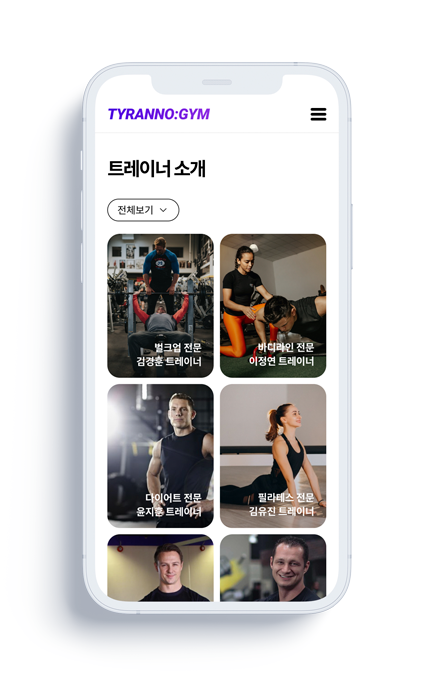
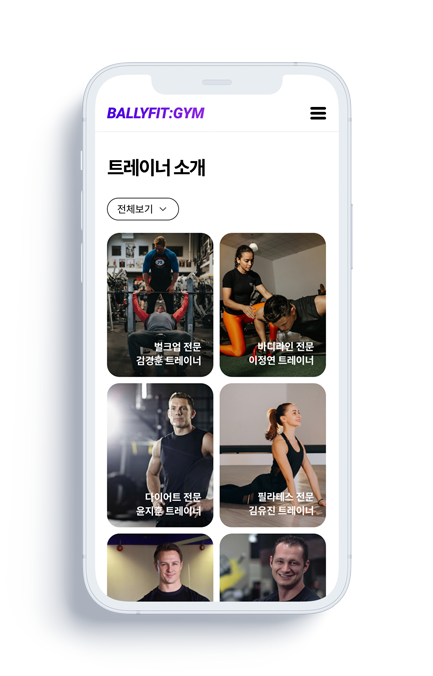
Add files via upload

diff --git a/index.html b/index.html
@@ -223,11 +223,12 @@
 
         <div class="cbg-blue section">
             <div class="container">
+                <!--
                 <div class="regist-box">
-                    <div class="regist" onclick="location.href='#';" target='_blank'>
+                    <div class="regist" onclick="location.href='https://pf.kakao.com/_FnQDK';" target='_blank'>
                         <p>⚡ 지금 바로 신청하기</p>
                     </div>
-                </div>
+                </div> -->
                 <div class="header_inner">
                     <img src="img/logo_white.svg" class="logo">
                     <button class="nav_btn">신청하기</button>
@@ -241,7 +242,7 @@
                                     <br>어렵지 않아요.
                                 </h1>
                                 <div class="opc">
-                                    <h1>발리핏이 도와드립니다.</h1>
+                                    <h1>발리FIT이 도와드립니다.</h1>
                                 </div>
                                 <button class="title_btn" onclick="p1()">홈페이지 샘플 보기</button>
                             </div>
@@ -270,7 +271,7 @@
                                         <i class="fas fa-cog"></i>
                                     </div>
                                     <h2>꼭 필요한 기능</h2>
-                                    <p>발리핏이 분석한 필수기능을
+                                    <p>발리FIT이 분석한 필수기능을
                                         <br>합리적인 가격에 제공합니다.
                                     </p>
                                 </div>
@@ -280,7 +281,7 @@
                                     </div>
                                     <h2>템플릿과 디자인</h2>
                                     <p>원하는 스타일만 선택하면
-                                        <br>발리핏이 완성합니다.
+                                        <br>발리FIT이 완성합니다.
                                     </p>
                                 </div>
                                 <div class="circle-box">
@@ -289,7 +290,7 @@
                                     </div>
                                     <h2>유지보수까지 한 번에</h2>
                                     <p>수정할 내용만
-                                        <br>발리핏에 알려주세요.
+                                        <br>발리FIT에 알려주세요.
                                     </p>
                                 </div>
                             </div>
@@ -453,7 +454,7 @@
                                         <br>원하는 컬러만 고르면
                                     </h1>
                                     <h1 class="td" data-aos="fade-in" data-aos-duration="1000" data-aos-delay="500">
-                                        <strong>발리핏이 디자인 합니다.</strong>
+                                        <strong>발리FIT이 디자인 합니다.</strong>
                                     </h1>
                                 </div>
                             </div>
@@ -465,7 +466,7 @@
                                             <br>원하는 컬러만 고르면
                                         </h1>
                                         <h1 class="td" data-aos="fade-in" data-aos-duration="1000" data-aos-delay="500">
-                                            발리핏이 디자인 합니다.
+                                            발리FIT이 디자인 합니다.
                                         </h1>
                                     </div>
                                 </div>
@@ -509,7 +510,7 @@
                                         <br>수정사항 업데이트도
                                     </h1>
                                     <h1 class="td" data-aos="fade-in" data-aos-duration="1000" data-aos-delay="500">
-                                        <font color="#0567fa"><strong>발리핏이 직접 합니다.</strong></font>
+                                        <font color="#0567fa"><strong>발리FIT이 직접 합니다.</strong></font>
                                     </h1>
                                     </h1>
                                 </div>
@@ -522,7 +523,7 @@
                                             <br>수정사항 업데이트도
                                         </h1>
                                         <h1 class="td" data-aos="fade-in" data-aos-duration="1000" data-aos-delay="500">
-                                            <font color="#0567fa">발리핏이 직접 합니다.</font>
+                                            <font color="#0567fa">발리FIT이 직접 합니다.</font>
                                         </h1>
                                     </div>
                                 </div>
@@ -558,7 +559,7 @@
                                 <div class="flex-center">
                                     <h1>
                                         오늘부터 홈페이지는
-                                        <br>발리핏에게 맡겨보세요.
+                                        <br>발리FIT에게 맡겨보세요.
                                     </h1>
                                 </div>
                             </div>

diff --git a/css/style.css b/css/style.css
@@ -249,7 +249,7 @@ h1 {
 }
 
 .logo {
-    height: 14px;
+    height: 20px;
     padding-left: 20px;
 }
 
